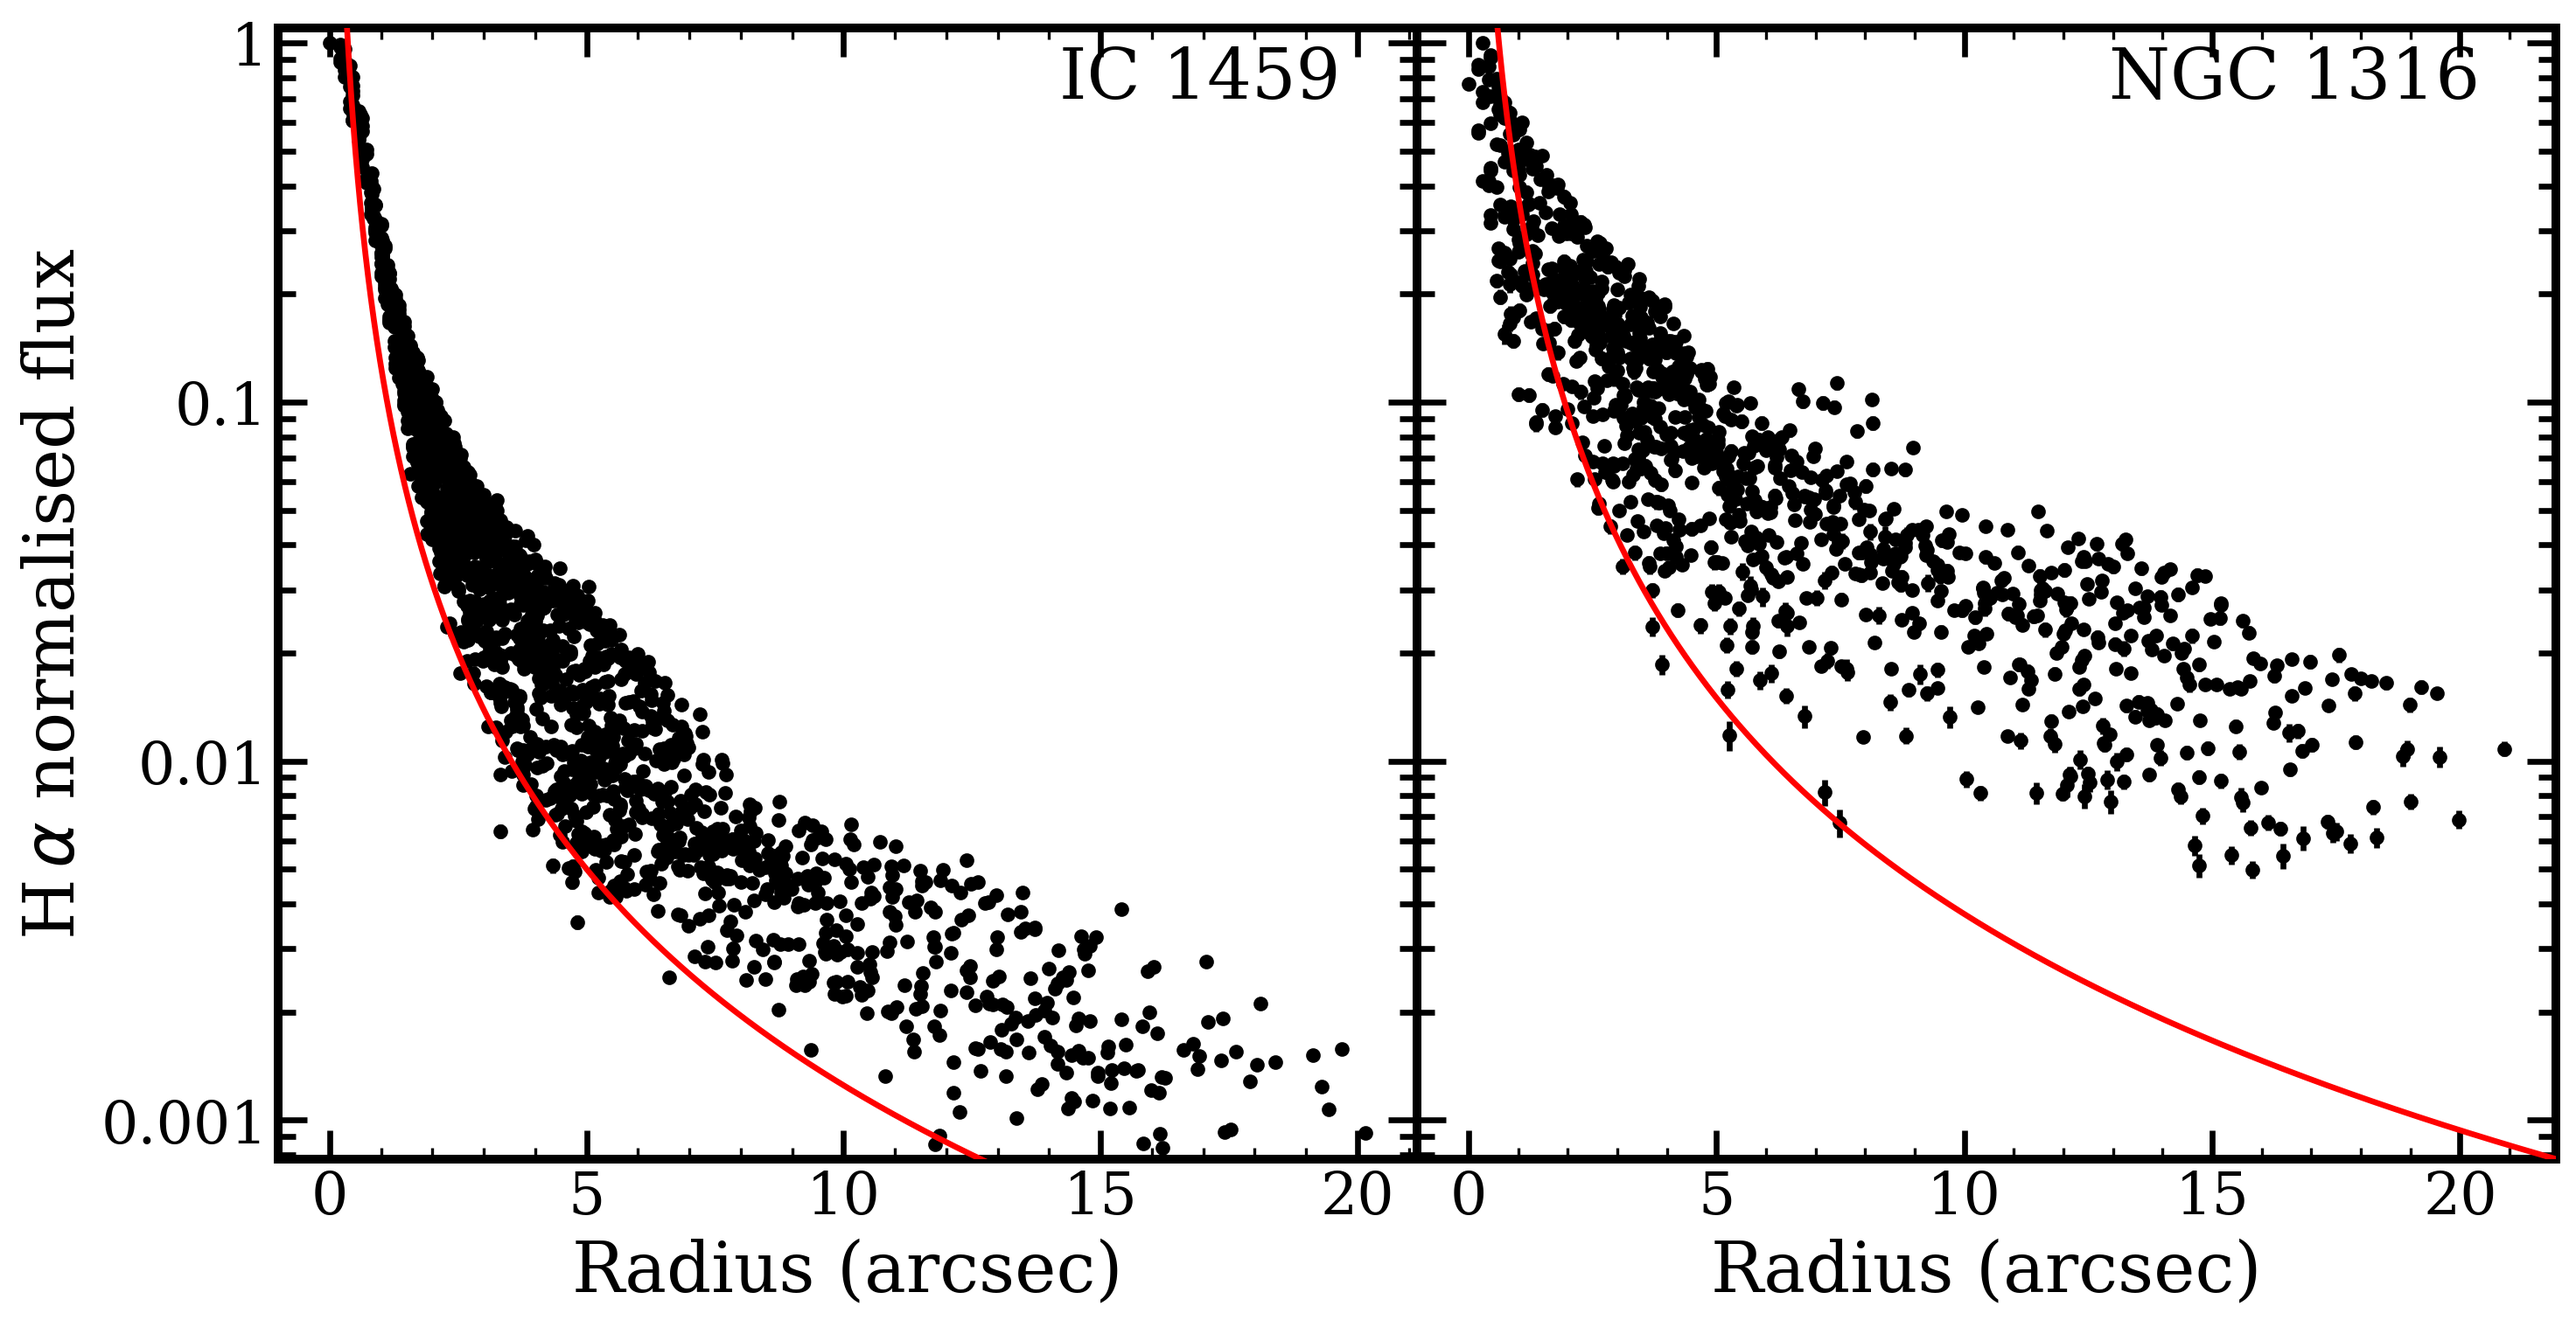
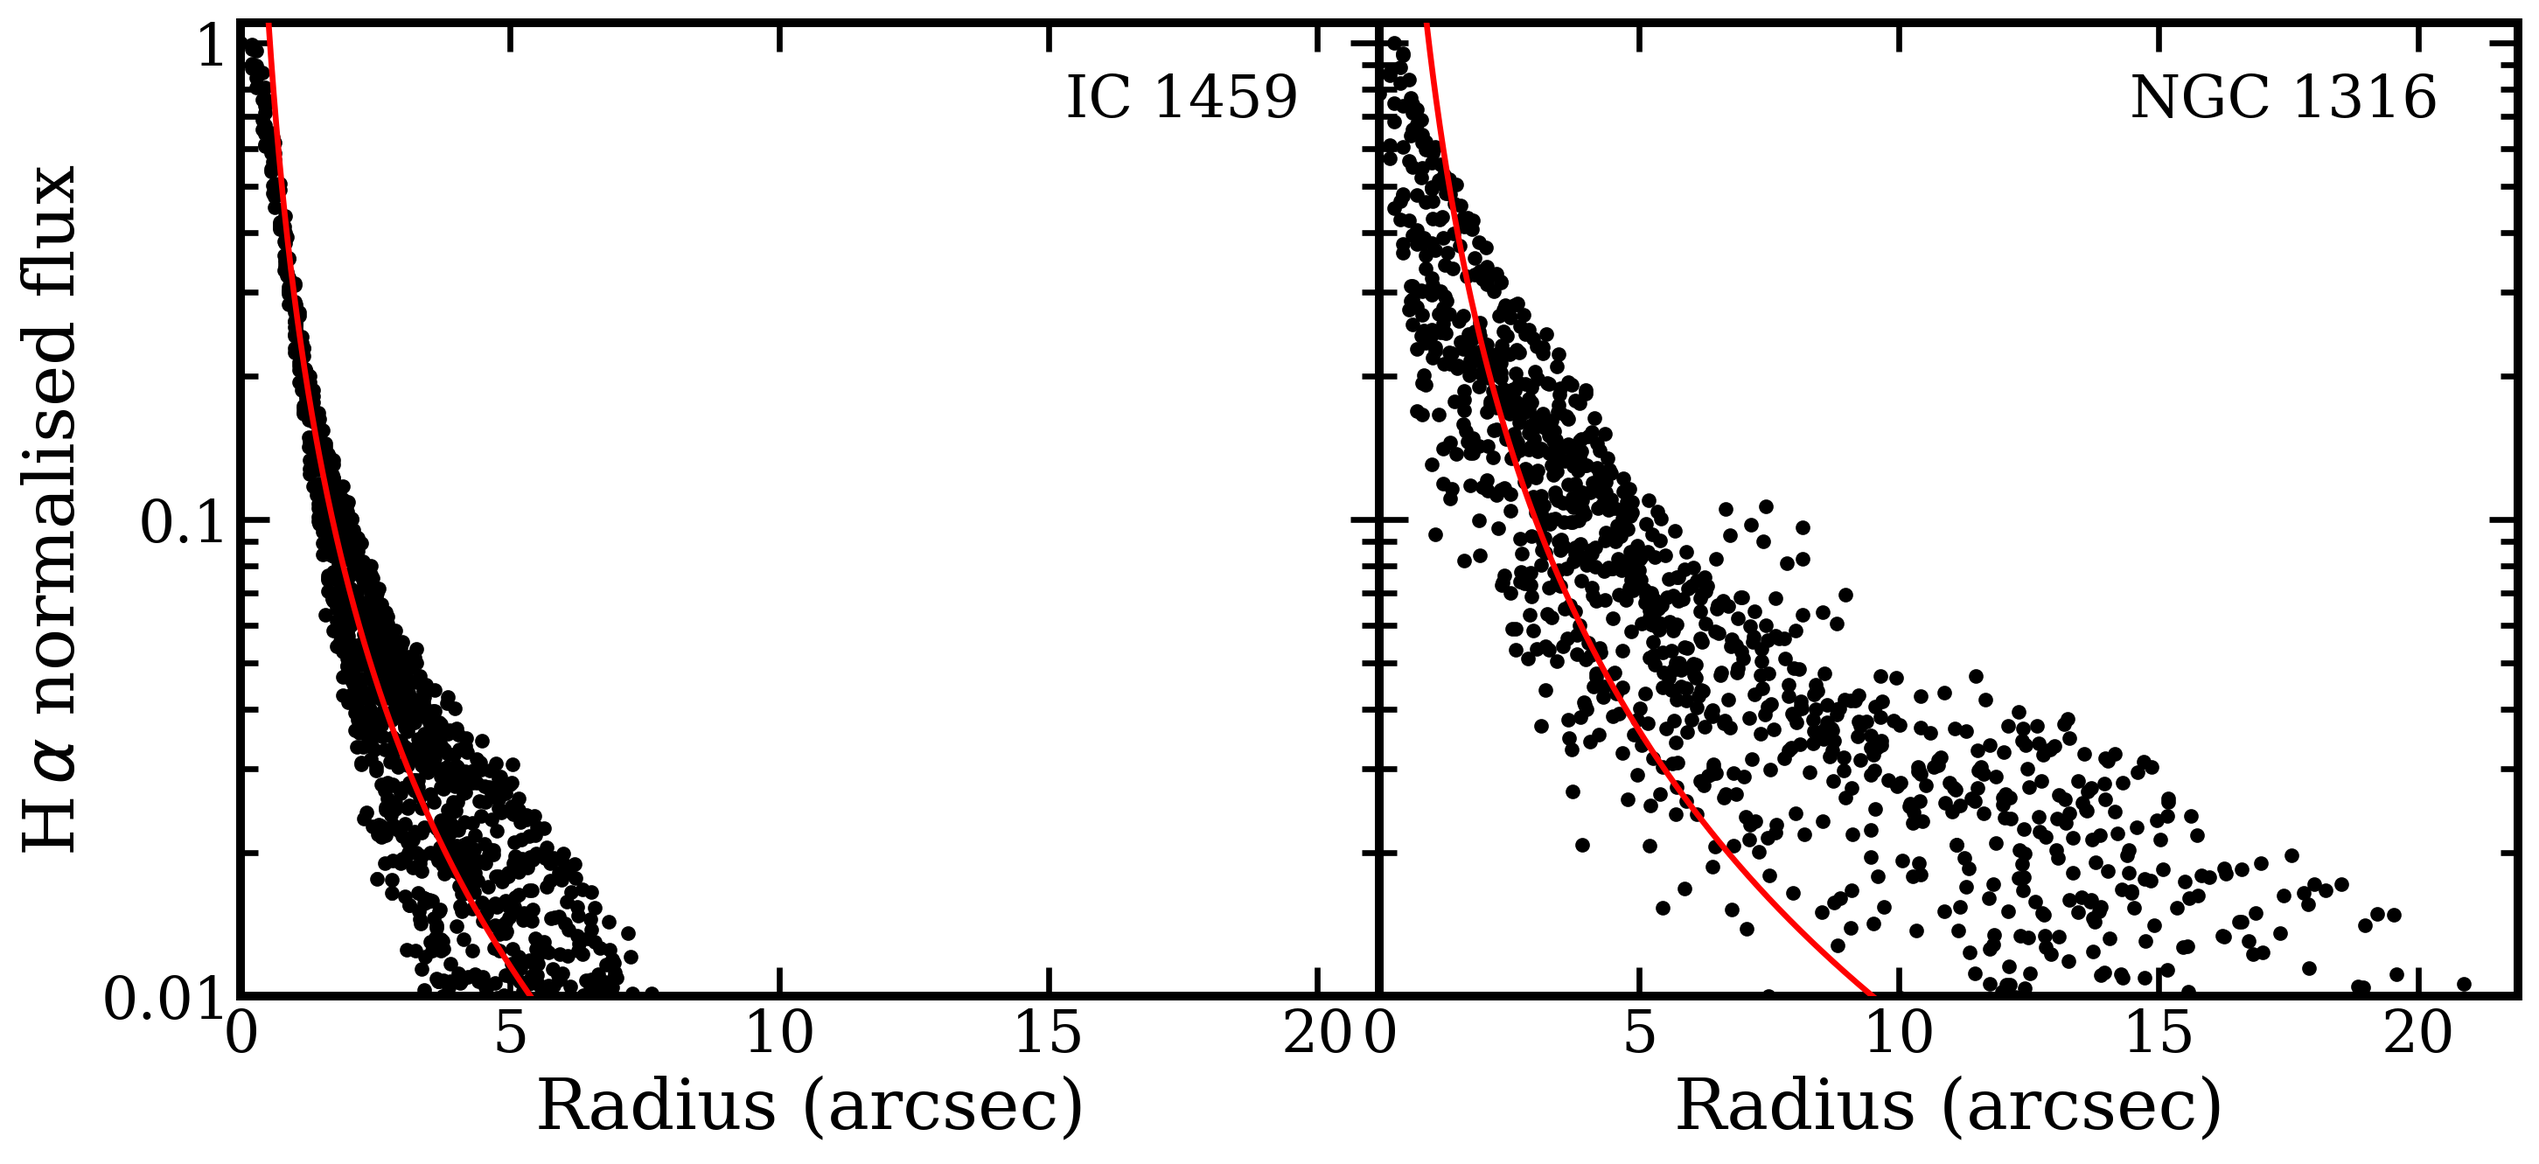
Tweeks to Halpha/beta profiles

Changed region(s): [[0.031, 0.0, 1.0, 0.9857], [0.0, 0.154, 0.031, 0.7393], [0.9301, 0.5545, 0.9921, 0.6161]]

diff --git a/produce_kine_plot.py b/produce_kine_plot.py
@@ -726,7 +726,6 @@ def ic4296_WHaN2():
 
 def H_profile(instrument='vimos'):
 	from matplotlib import ticker
-	print '**************Need to correctly set seeing************'
 
 
 	if instrument=='vimos':
@@ -743,7 +742,17 @@ def H_profile(instrument='vimos'):
 		line = 'Halpha'
 		res = 0.2 # arcsec/pix
 
-	Prefig(size=np.array((len(galaxies), 1))*7)
+	Prefig(size=np.array((len(galaxies), 0.43*len(galaxies)))*7)
+
+	# if instrument=='vimos':
+		# plt.rc('axes', labelsize='x-large') # facecolor='w'
+		# plt.rc('xtick.major', size=10, width=2)
+		# plt.rc('xtick.minor', size=10, width=2)
+		# plt.rc('ytick.major', size=10, width=2)
+		# plt.rc('ytick.minor', size=10, width=2)
+	plt.rc('font', size=10*len(galaxies))
+
+
 	fig, ax = plt.subplots(1, len(galaxies), sharey=True)
 
 	analysis_dir = "%s/Data/%s/analysis" % (cc.base_dir, instrument)
@@ -756,31 +765,36 @@ def H_profile(instrument='vimos'):
 
 	for i, galaxy in enumerate(galaxies):
 		print 'H profile:', galaxy
-		D = Data(galaxy, instrument=instrument, opt='pop')
+		if galaxy == 'ngc1316':
+			D = Data(galaxy, instrument=instrument, opt='pop_test', overide=True)
+		else:
+			D = Data(galaxy, instrument=instrument, opt='pop')
 
-		if galaxy=='ic1459' and instrument=='vimos':
-			seeing_sigma = np.mean([0.82,0.84,1.20,1.26,1.10,1.27]) * 2.5
-			norm_r = 2.5
-			norm_y = 0.04
-		elif galaxy=='ngc0612':
-			seeing_sigma = np.mean([0.72,0.78,1.45,1.46,1.08,1.11]) * 2.5
-			norm_r = 2.5
-			norm_y = 0.2
-		elif galaxy=='ngc3100':
-			seeing_sigma = np.mean([0.76,0.82,0.75,0.82,1.16,1.20]) * 2.5
-			norm_r = 2
-			norm_y = 0.15
+
+		if instrument=='vimos':
+			if galaxy=='ic1459':
+				seeing_sigma = np.mean([0.82,0.84,1.20,1.26,1.10,1.27]) * 2.5
+				norm_r = 2.4
+				norm_y = 0.1
+			elif galaxy=='ngc0612':
+				seeing_sigma = np.mean([0.72,0.78,1.45,1.46,1.08,1.11]) * 2.5
+				norm_r = 5
+				norm_y = 0.2
+			elif galaxy=='ngc3100':
+				seeing_sigma = np.mean([0.76,0.82,0.75,0.82,1.16,1.20]) * 2.5
+				norm_r = 2.9
+				norm_y = 0.2
 		elif instrument=='muse':
 			from errors2_muse import get_dataCubeDirectory
 			f=fits.open(get_dataCubeDirectory(galaxy))
 			seeing_sigma = np.mean([f[0].header['ESO TEL AMBI FWHM START'],
 				f[0].header['ESO TEL AMBI FWHM START']]) * 2.5
 			if galaxy=='ic1459':
-				norm_r = 5
-				norm_y = 0.005
+				norm_r = 1.7
+				norm_y = 0.1
 			elif galaxy=='ngc1316':
-				norm_r = 5
-				norm_y = 0.015
+				norm_r = 3
+				norm_y = 0.1
 
 		i_gal = np.where(galaxy_gals==galaxy)[0][0]
 		center = (x_cent_gals[i_gal], y_cent_gals[i_gal])
@@ -810,7 +824,7 @@ def H_profile(instrument='vimos'):
 
 			ax[i].text(0.93*lim[1], 0.7, str_galaxies[i], ha='right')
 
-			ax[i].set_ylim([0.001, 1.1])
+			ax[i].set_ylim([0.01, 1.1])
 
 			ax[i].set_yscale('log')
 			ax[i].tick_params(which='major', direction='in', length=10, 
@@ -832,7 +846,7 @@ def H_profile(instrument='vimos'):
 
 	fig.subplots_adjust(wspace=0,hspace=0)
 	fig.savefig('%s/Documents/paper/%s_profile.png' % (
-		cc.home_dir, line), dpi=240)
+		cc.home_dir, line), dpi=240, bbox_inches='tight')
 	plt.close('all')
 	
 
@@ -840,7 +854,7 @@ def H_profile(instrument='vimos'):
 
 if __name__=='__main__':
 	# if 'home' in cc.device:
-	H_profile(instrument='vimos')
+	# H_profile(instrument='vimos')
 
 	# ngc3100_NI_Hb()
 
@@ -853,7 +867,7 @@ if __name__=='__main__':
 	# elif cc.device == 'uni':
 		# ic4296_WHaN2()
 
-	# H_profile(instrument='muse')
+	H_profile(instrument='muse')
 
 	# ngc1316_inflow()
 

diff --git a/paper.tex b/paper.tex
@@ -1778,7 +1778,7 @@ a LINER).
   \caption{H$\alpha$ flux radial profiles derived from the MUSE
     data. Solid red lines show radial profiles proportional to
     $r^{-2}$, convolved with a Gaussian of width equal to the measured
-    PSF. {\bf (But what about the zero-points of the red profiles? How
+    PSF. \added{The fitting of these lines was done by eye.}{\bf (But what about the zero-points of the red profiles? How
       are these set? Explain.)} {\bf (Make the axis labels and galaxy
       names as thick as the plot boxes.) {\bf (All labels are rather
         small. Enlarge?)} {\bf (Note that the bounding boxes of
